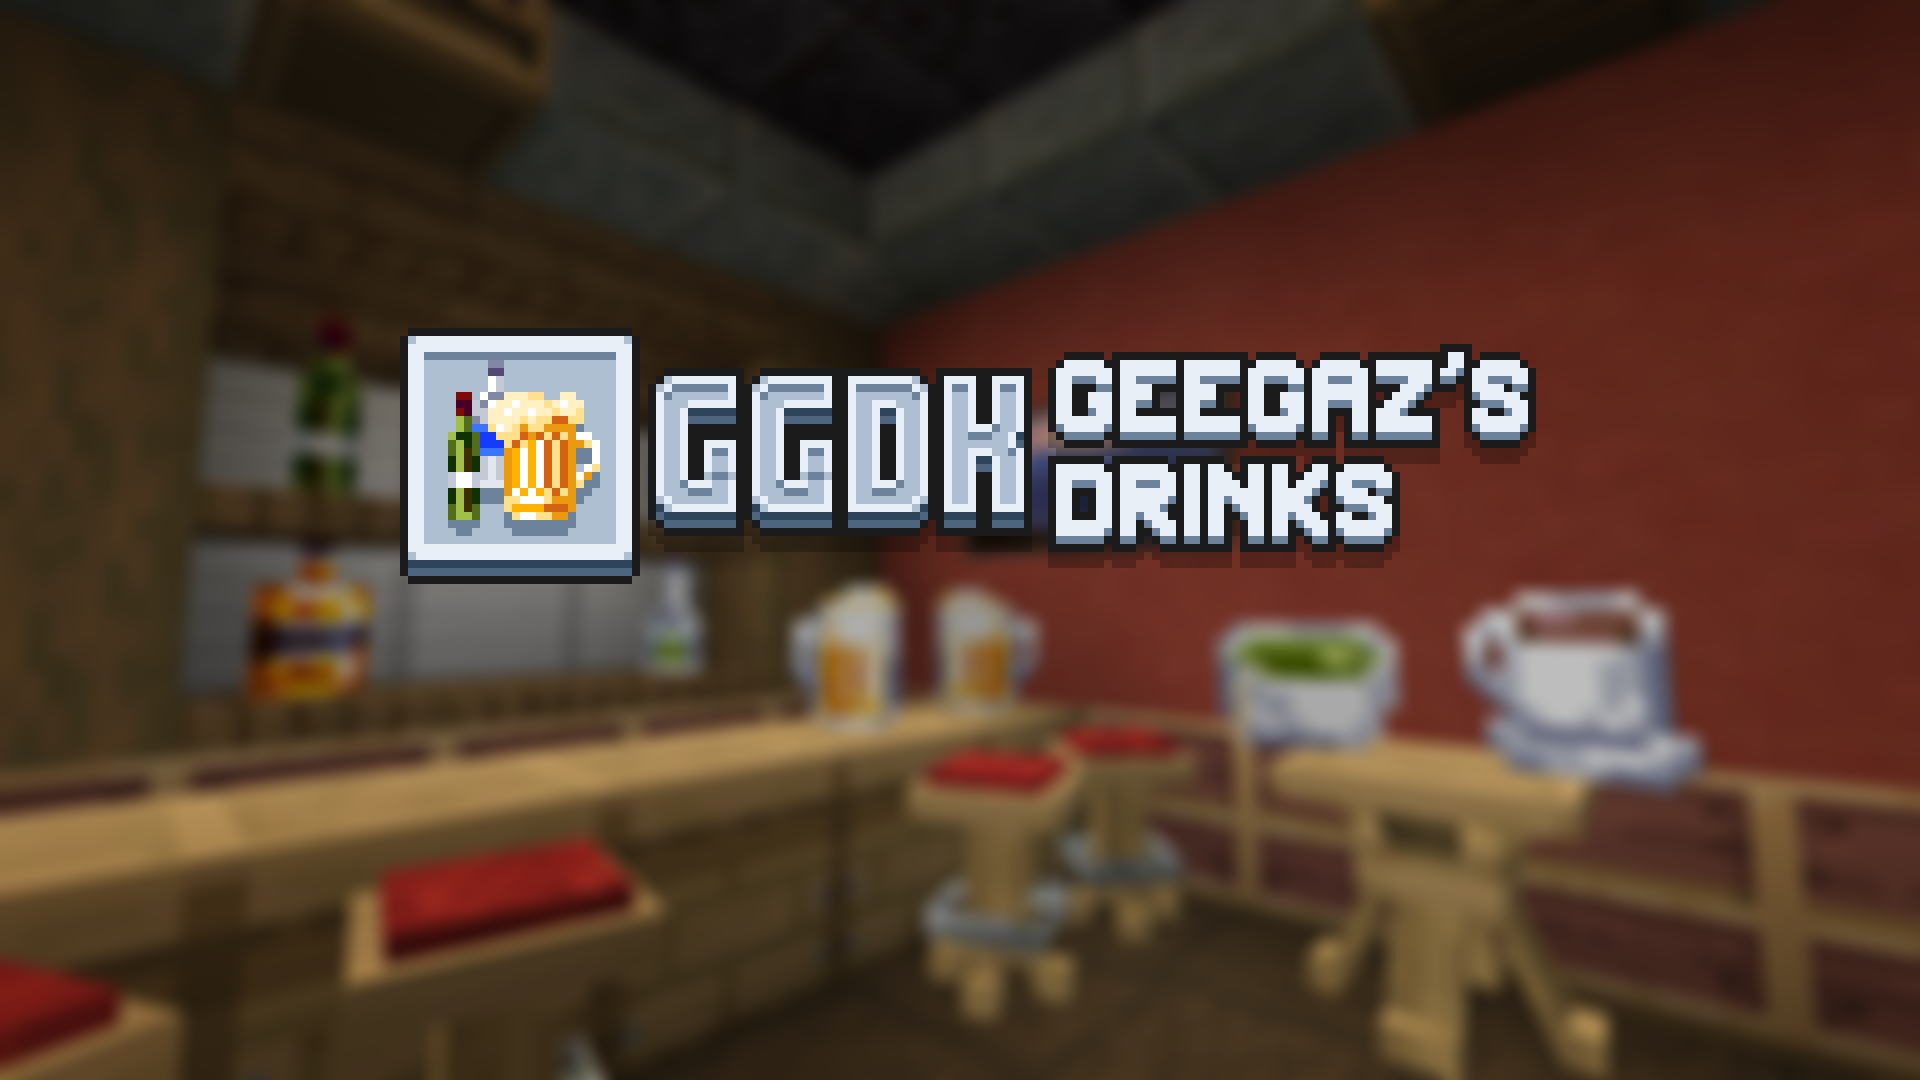
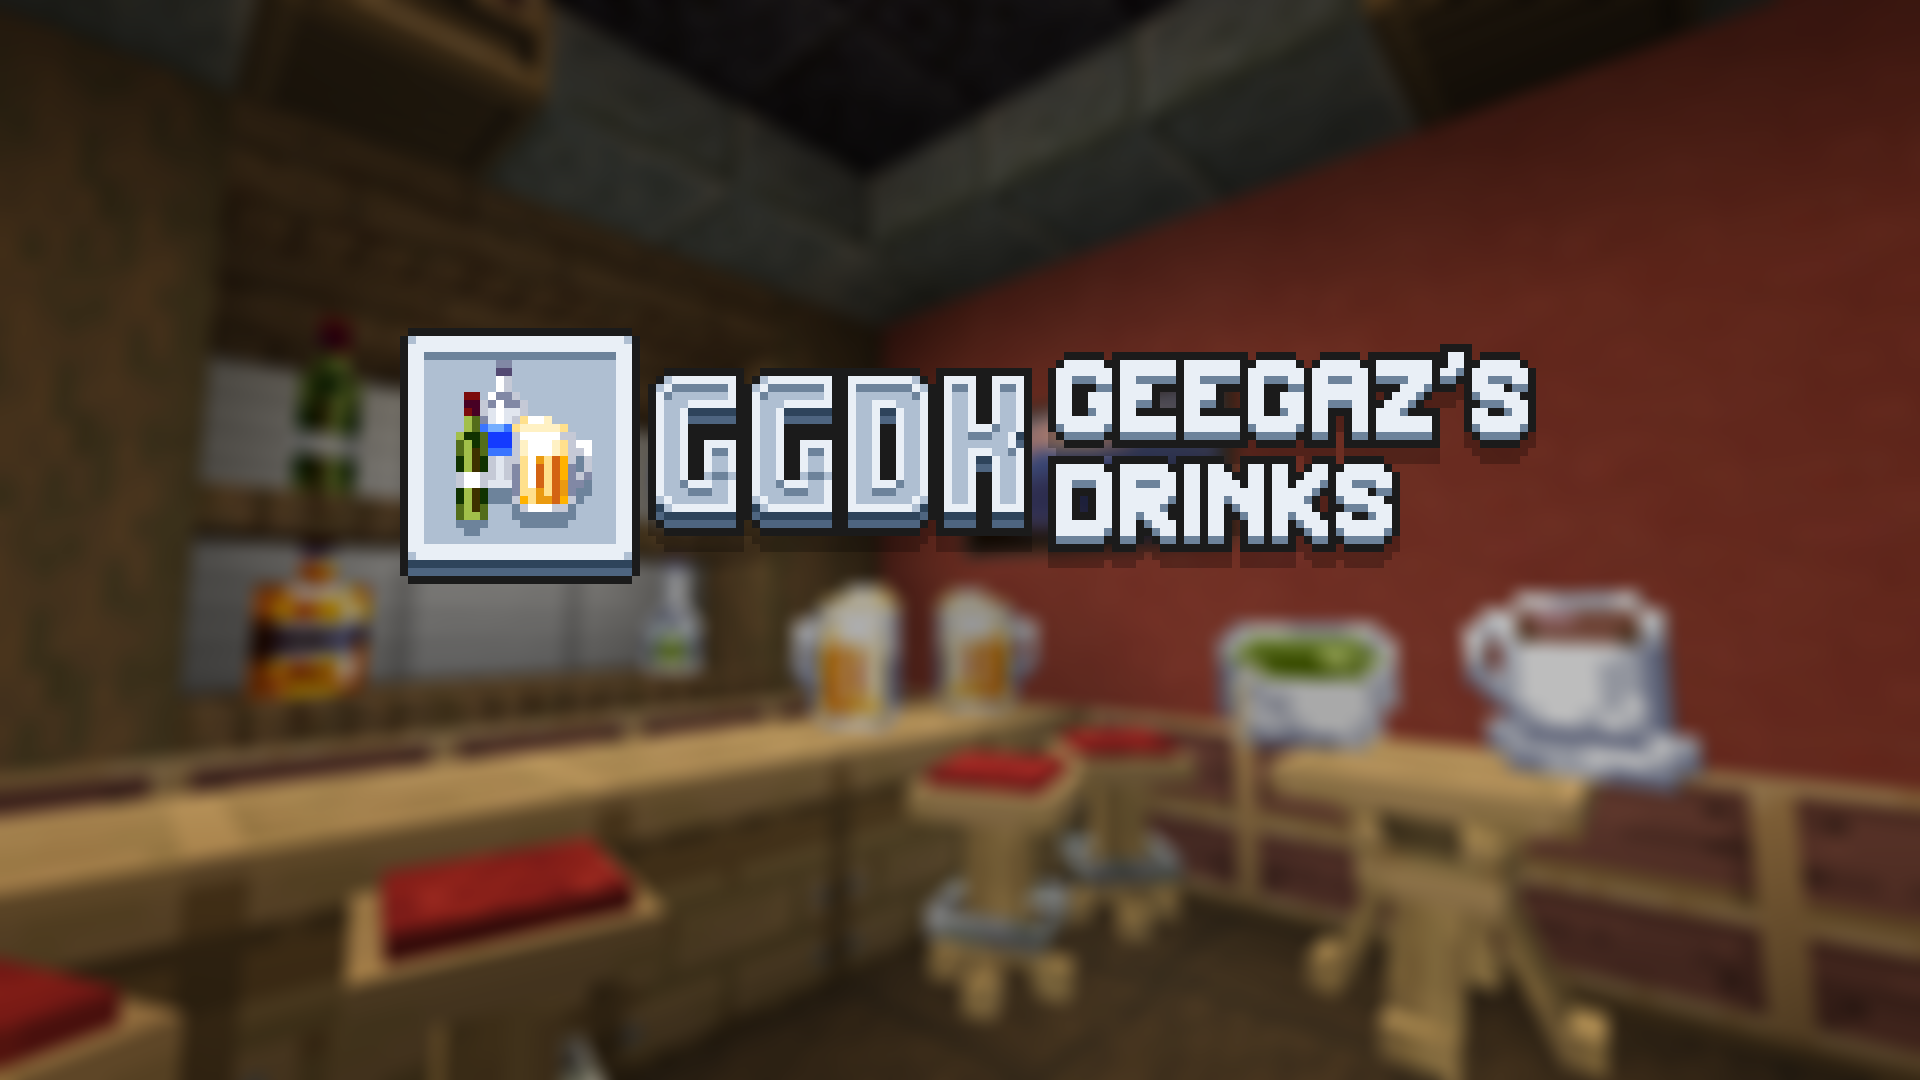
Updated README & images

Changed region(s): [[0.2188, 0.3361, 0.3125, 0.5194]]

diff --git a/README.md b/README.md
@@ -1,2 +1,23 @@
-# GGDK - Geegaz's Drinks
+![GGDK - Geegaz's Drinks](img/banner.png)
+A datapack adding 8 new drinks with various effects and an alcohol mechanic.<br>
+**This datapack requires a resource pack to work.**
 
+## Recipes
+![recipes image](img/screenshot_3.png)
+
+## Installation
+1. Download the datapack & resource pack from the ["Releases"](https://github.com/Geegaz-Datapacks/GGDK/releases) tab of the repository.
+2. Place the datapack in the `datapacks` folder of your world
+3. Place the resource pack in the `resourcepacks` folder of minecraft
+
+## Contributing
+You can help translating the datapacks by adding your language to this [Google Sheet](https://docs.google.com/spreadsheets/d/144mhHsIzvqovH30cmGMgiHWHP_Fb4huwsOg8bK4EghE/edit?gid=0#gid=0).
+
+You can report issues in the ["Issues"](https://github.com/Geegaz-Datapacks/GGDK/issues) tab of the repository. Check if your issue has already been reported, and if not create a new one:
+1. Give your issue a descriptive name
+2. Indicate your minecraft version and your software (vanilla, modded, plugins...)
+3. Explain what doesn't work and how you expected it to work
+4. If needed add logs, screenshots and videos
+
+## License
+See the `src` folder for the licenses of the datapack & resource pack
